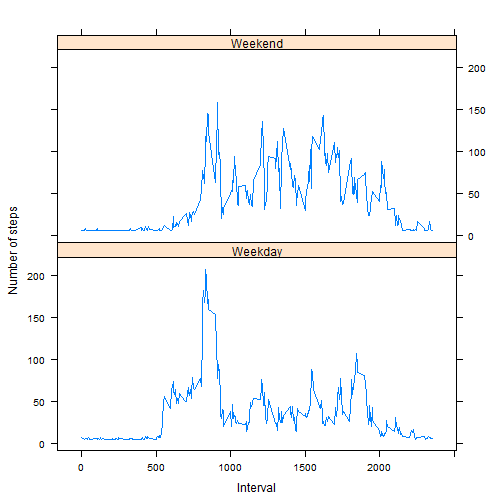
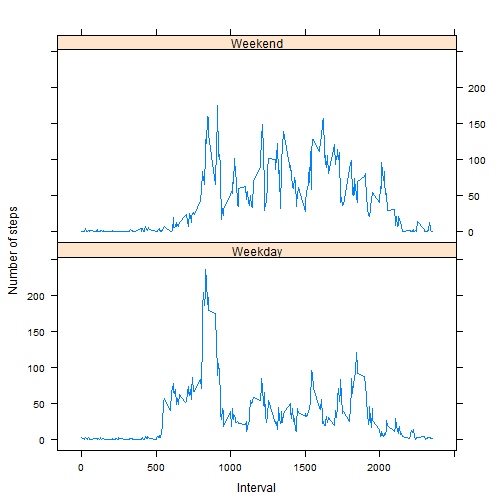
Commit changes to the imputting missing values device

diff --git a/PA1_template.html b/PA1_template.html
@@ -295,18 +295,20 @@ with(clearActivityData, {
 <pre><code>## [1] 2304
 </code></pre>
 
-<p>To fill the empty values we will use the average per weekday. So for example, if there is a missing value for Monday, we will replace that with the average steps the person makes every Monday.</p>
+<p>To fill the empty values we will use the average per weekday and interval. So for example, if there is a missing value for Monday&#39;s interval 800, we will replace that with the average steps the person makes every Monday for the 800th 5-min interval.</p>
 
-<pre><code class="r"># calculate average per weekday
-averageWeekDaySteps &lt;- tapply(clearActivityData$Steps, weekdays(clearActivityData$Date), FUN=mean)
-
-# copy original data
+<pre><code class="r"># copy original data
 newActivityData &lt;- activityData
+
+# calculate average per weekday interval
+avgWDSteps &lt;- aggregate(Steps~Interval+weekdays(Date), activityData, mean)
+names(avgWDSteps) &lt;- c(&quot;Interval&quot;,&quot;Day&quot;,&quot;AvgSteps&quot;)
 
 # replace NA values
 for(r in 1:nrow(activityData)){
         if(is.na(activityData$Steps[r])){
-                newActivityData$Steps[r] &lt;- averageWeekDaySteps[weekdays(activityData$Date[r])]
+                newActivityData$Steps[r] &lt;- avgWDSteps$AvgSteps[avgWDSteps$Day == weekdays(activityData$Date[r]) 
+                                                                &amp; avgWDSteps$Interval == activityData$Interval[r]]
         }
 }
 </code></pre>
@@ -343,21 +345,18 @@ abline(v = median(newTotalSteps), col = &quot;red&quot;, lwd = 1)
 
 <p>For this part of the assigment we examine the differences in activity patterns between weekdays and weekends.</p>
 
-<pre><code class="r"># create weekend/weekday factor
-daytypeFactor &lt;- factor(c(&quot;Weekend&quot;,&quot;Weekday&quot;), labels = c(&quot;Weekend&quot;,&quot;Weekday&quot;))
-
-# set days in data frame column
-newActivityData$Daytype &lt;- as.factor(ifelse(weekdays(newActivityData$Date) %in% c(&quot;Saturday&quot;,&quot;Sunday&quot;),&quot;Weekend&quot;,&quot;Weekday&quot;))
+<pre><code class="r"># set day category in new data frame factor column
+newActivityData$DayCat &lt;- as.factor(ifelse(weekdays(newActivityData$Date) %in% c(&quot;Saturday&quot;,&quot;Sunday&quot;),&quot;Weekend&quot;,&quot;Weekday&quot;))
 
 # get average steps grouping by intervals and day types(weekday/weekend)
-newAveragedSteps &lt;- aggregate(Steps~Interval+Daytype, newActivityData, mean)
+newAveragedSteps &lt;- aggregate(Steps~Interval+DayCat, newActivityData, mean)
 
 # create plot of the 5-minute interval (x-axis) and the average number of steps taken, averaged across all weekday days or weekend days (y-axis)
 library(lattice)
-xyplot( Steps ~ Interval | Daytype, data = newAveragedSteps, type=&quot;l&quot;, ylab=&quot;Number of steps&quot;, layout = c(1,2) )
+xyplot( Steps ~ Interval | DayCat, data = newAveragedSteps, type=&quot;l&quot;, ylab=&quot;Number of steps&quot;, layout = c(1,2) )
 </code></pre>
 
[2 lines of base64/hex data omitted]
 
 </body>
 

diff --git a/PA1_template.md b/PA1_template.md
@@ -135,21 +135,23 @@ length(activityData[!complete.cases(activityData),"Steps"])
 ## [1] 2304
 ```
 
-To fill the empty values we will use the average per weekday. So for example, if there is a missing value for Monday, we will replace that with the average steps the person makes every Monday.
+To fill the empty values we will use the average per weekday and interval. So for example, if there is a missing value for Monday's interval 800, we will replace that with the average steps the person makes every Monday for the 800th 5-min interval.
 
 
 
 ```r
-# calculate average per weekday
-averageWeekDaySteps <- tapply(clearActivityData$Steps, weekdays(clearActivityData$Date), FUN=mean)
-
 # copy original data
 newActivityData <- activityData
+
+# calculate average per weekday interval
+avgWDSteps <- aggregate(Steps~Interval+weekdays(Date), activityData, mean)
+names(avgWDSteps) <- c("Interval","Day","AvgSteps")
 
 # replace NA values
 for(r in 1:nrow(activityData)){
         if(is.na(activityData$Steps[r])){
-                newActivityData$Steps[r] <- averageWeekDaySteps[weekdays(activityData$Date[r])]
+                newActivityData$Steps[r] <- avgWDSteps$AvgSteps[avgWDSteps$Day == weekdays(activityData$Date[r]) 
+                                                                & avgWDSteps$Interval == activityData$Interval[r]]
         }
 }
 ```
@@ -194,18 +196,15 @@ For this part of the assigment we examine the differences in activity patterns b
 
 
 ```r
-# create weekend/weekday factor
-daytypeFactor <- factor(c("Weekend","Weekday"), labels = c("Weekend","Weekday"))
-
-# set days in data frame column
-newActivityData$Daytype <- as.factor(ifelse(weekdays(newActivityData$Date) %in% c("Saturday","Sunday"),"Weekend","Weekday"))
+# set day category in new data frame factor column
+newActivityData$DayCat <- as.factor(ifelse(weekdays(newActivityData$Date) %in% c("Saturday","Sunday"),"Weekend","Weekday"))
 
 # get average steps grouping by intervals and day types(weekday/weekend)
-newAveragedSteps <- aggregate(Steps~Interval+Daytype, newActivityData, mean)
+newAveragedSteps <- aggregate(Steps~Interval+DayCat, newActivityData, mean)
 
 # create plot of the 5-minute interval (x-axis) and the average number of steps taken, averaged across all weekday days or weekend days (y-axis)
 library(lattice)
-xyplot( Steps ~ Interval | Daytype, data = newAveragedSteps, type="l", ylab="Number of steps", layout = c(1,2) )
+xyplot( Steps ~ Interval | DayCat, data = newAveragedSteps, type="l", ylab="Number of steps", layout = c(1,2) )
 ```
 
 ![plot of chunk compareActivityPatterns](figure/compareActivityPatterns.png) 
